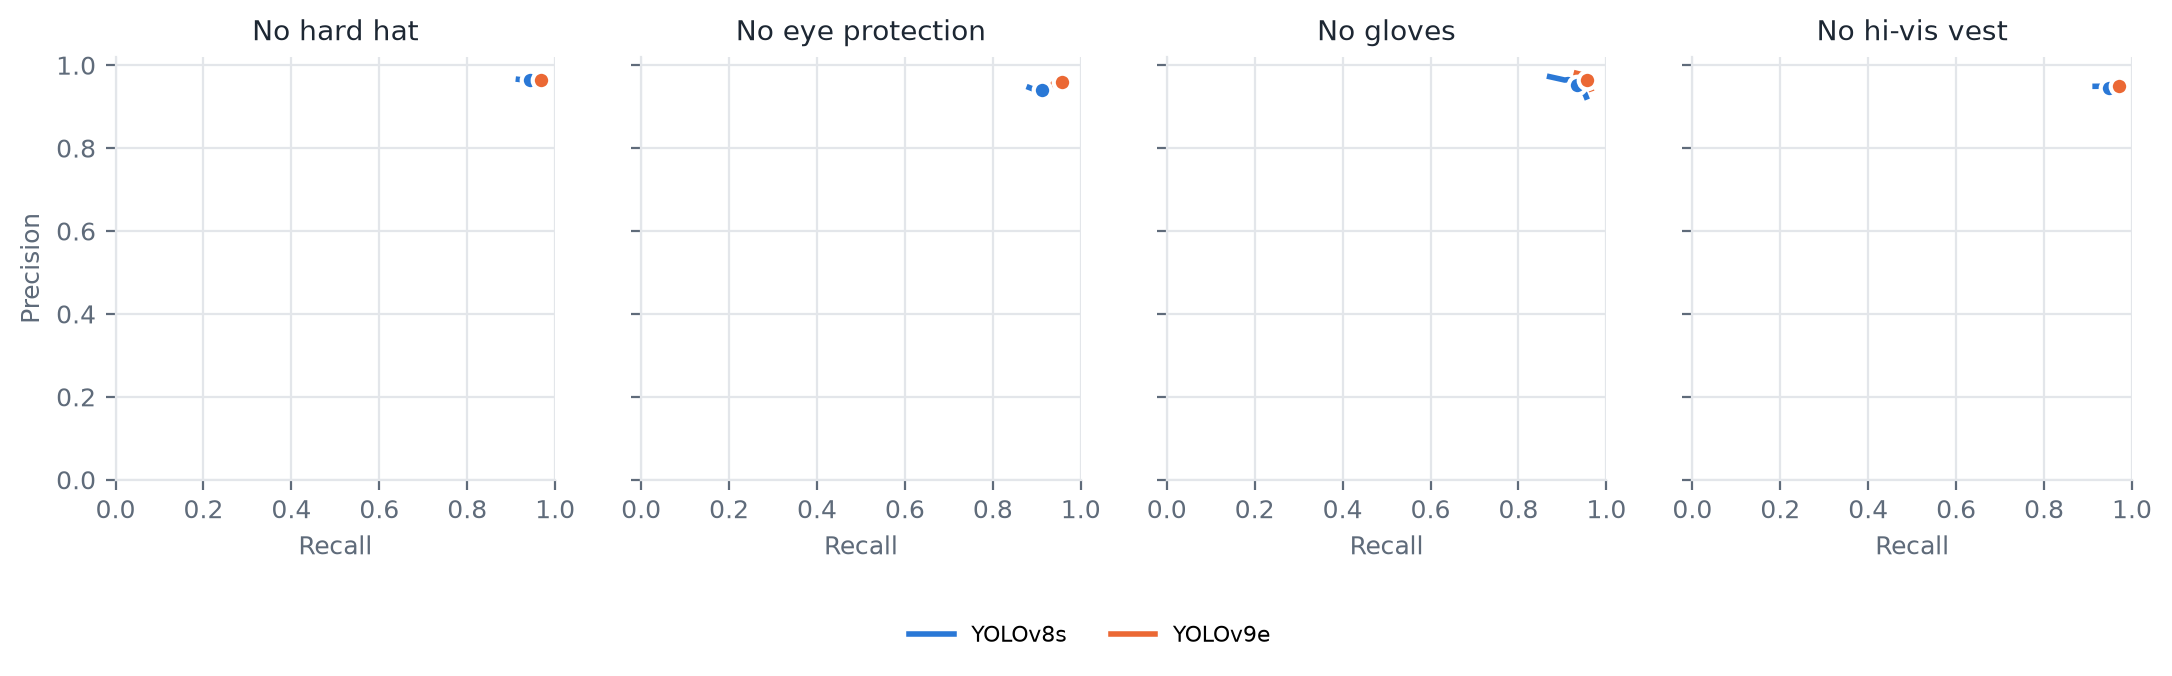
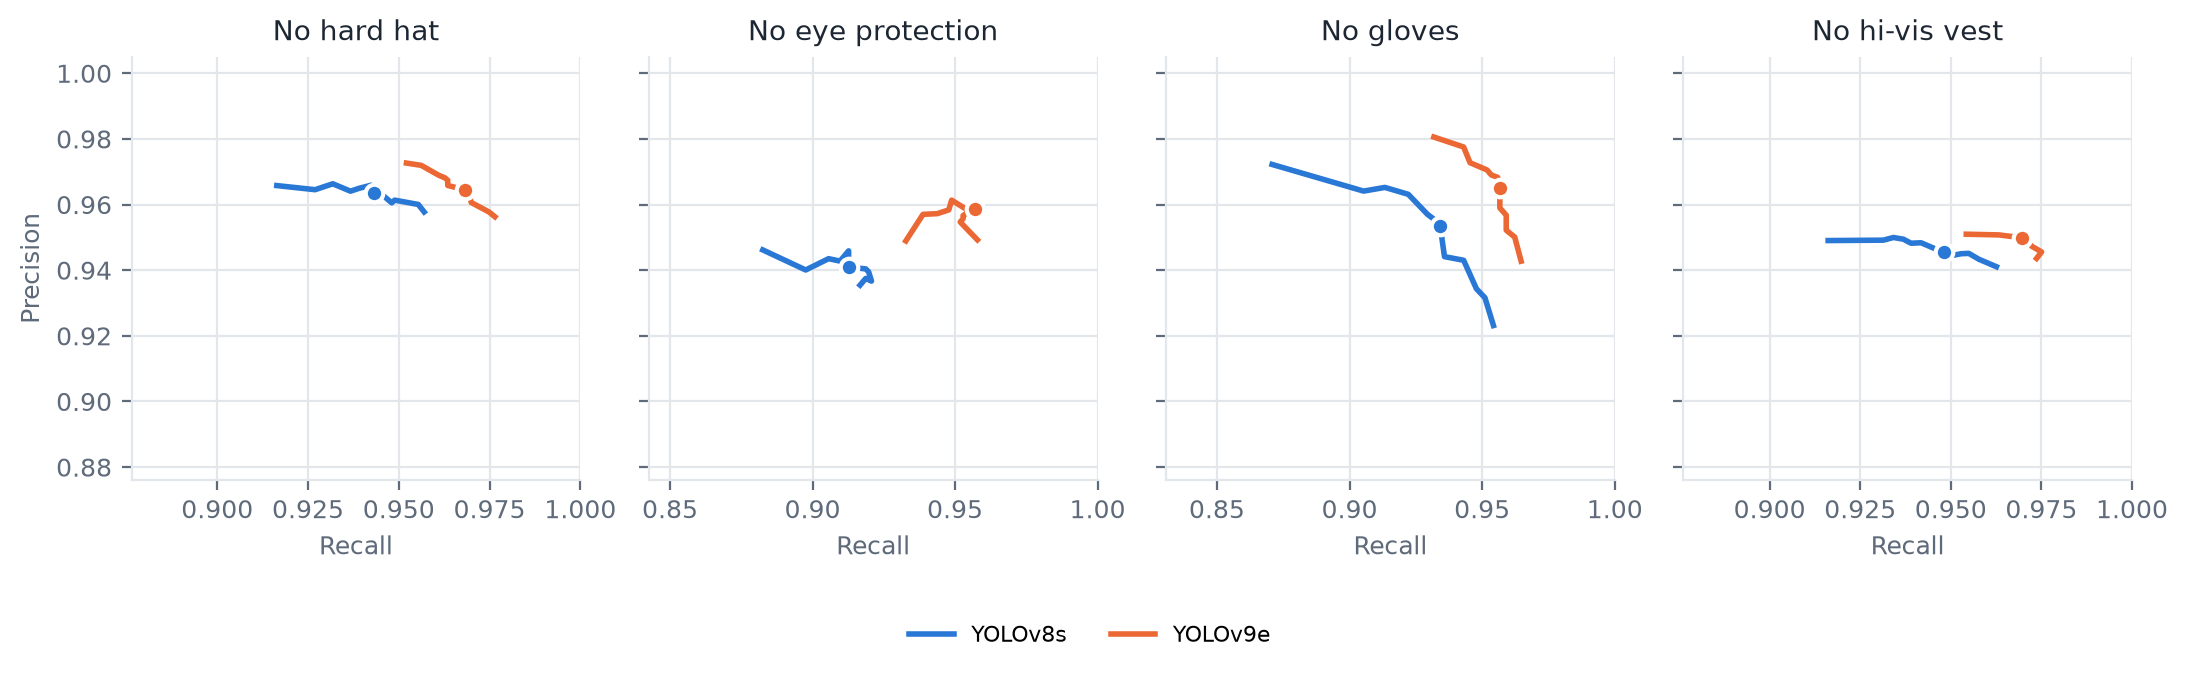
Phase 0: README (requirements, acceptance, 121 tests, coveralls), simulated acceptance results, zoomed PR figures

diff --git a/README.md b/README.md
@@ -46,6 +46,8 @@ evaluation/               offline evaluation on SH17
 scripts/download_models.py  downloads and checksums the SH17 YOLO weights
 tests/                    pytest suite (unit, workflow, API end-to-end, detectors, evaluation pipeline)
 docs/architecture.md      architecture diagram, component responsibilities, design decisions
+docs/requirements.md      user stories and data model, each story linked to code and tests
+docs/verification.md      verification log: every command, number and decision behind the results
 docs/course_mapping.md    which course lecture is applied where
 Dockerfile, docker-compose.yml   container build (non-root, health check) and Compose stack (+ optional Ollama)
 AGENTS.md                 rules for coding agents working in this repository
@@ -153,7 +155,7 @@ same with an old `shms.db`: the app refuses to start on an outdated schema and s
 pytest                 # or: make test
 ```
 
-120 tests, under a minute, no model or GPU needed (the YOLO tests run automatically when the weights are present). They
+121 tests, under a minute, no model or GPU needed (the YOLO tests run automatically when the weights are present). They
 cover every cell of the risk matrix, the PPE rules, area-specific PPE checks, idempotent reporting, database
 constraints, AI monitoring and `/metrics`, the workflow state machine and permissions, the HTTP API
 end-to-end (report → confirm → route → close → dashboard), the detectors (Ollama mocked at HTTP level), the
@@ -195,6 +197,7 @@ python -m evaluation.evaluate --root $SH17 --detector ollama --prompt v2 --subse
 python -m evaluation.evaluate --root $SH17 --detector ollama --prompt v1 --subset   # first prompt, for comparison
 python -m evaluation.compare && python -m evaluation.compare --only-subset
 python -m evaluation.release_gate --run yolo_sh17_yolo9e          # decides which hazard types the app uses
+python -m evaluation.acceptance --run yolo_sh17_yolo9e            # SIMULATED reporter acceptance (proposal criterion)
 ```
 
 (`make eval-prepare eval-yolo eval-vlm eval-compare SH17=~/datasets/sh17` runs the same.)
@@ -247,8 +250,8 @@ and `summary_subset.md` (the shared 300-photo subset, including the vision-langu
 **Release gate.** `python -m evaluation.release_gate --run yolo_sh17_yolo9e` applies the thresholds in
 `evaluation/release_gate.json` (precision ≥ 0.80, recall ≥ 0.75, specificity ≥ 0.80, p95 ≤ 20 s) and writes
 `shms/config/ai_release.json`; the app only enables approved hazard types. The vest check wrongly flags 42 % of
-the test photos that contain no vest violation (74 of 177), so it is **not released**: areas that require vests
-show it as "not AI-checked yet", and the hazard type is not offered on the report form. The precision/recall
+the test photos that contain no vest violation (74 of 177), so it is **not released**. The seeded refinery areas require flame-resistant
+coveralls rather than hi-vis vests, so no area requires a vest and the vest is not offered on the report form. The precision/recall
 targets were set for this evaluation; the proposal's own AI criteria are reporter acceptance (≥ 80 %, monitored
 in the app) and latency (≤ 20 s). The specificity threshold was added after the first test results.
 
@@ -284,7 +287,7 @@ cause unknown** (details in `docs/verification.md`).
 * Photos are processed locally; nothing is sent to external services.
 * Demo sign-in has no passwords; a deployment would use the company's single sign-on.
 * The hazard list contains only the PPE checks that passed the release gate, so other hazards (including a missing
-  hi-vis vest and unsafe conditions) cannot currently be reported in the app, not even manually.
+  hi-vis vest, which no seeded area requires, and unsafe conditions) cannot currently be reported in the app, not even manually.
 * Scope is limited on purpose to hazards with a public, peer-reviewed labelled test set. Unsafe conditions
   (caustic spills, steam leaks, missing grating) have no such dataset; collecting one with ≥ 3 annotators and
   measuring their agreement is future work. Fire/smoke (D-Fire) was considered and excluded: fires are handled

diff --git a/docs/verification.md b/docs/verification.md
@@ -670,3 +670,62 @@ both referenced by the README – do not exist in practice yet; (3) two statemen
 in configuration or behaviour (the "from the proposal" justification and vest reporting). The mAP gap to the paper is
 a disclosed limitation, not a blocker. With roughly half a day of your time (audit + decisions + report) and an
 hour of agent work after your go-ahead, the project can be submitted by Friday.
+
+---
+
+# Phase 0 – Safety net (2026-11-18)
+
+### P0.1 Patches applied (branch `feature/verification`)
+
+```bash
+git am ../shms_fixes3.patch ../shms_proposal4.patch
+```
+- `f4c58eb` Correct release-gate provenance note; clearer wording for gated checks and outdated databases; readable
+  model names and zoomed PR figure. (Resolves handover decisions 2 and 4; the `_why` text now states the proposal's
+  own criteria.)
+- `aa90777` Simulated reporter acceptance (`evaluation/acceptance.py`), user stories + data model
+  (`docs/requirements.md`), no vest requirement in seeded areas (the synthesized refinery uses flame-resistant
+  coveralls). (Resolves handover decision 3 by design: no area requires a vest.)
+
+### P0.2 README
+Structure lists `docs/requirements.md` and `docs/verification.md`; evaluation commands include
+`python -m evaluation.acceptance --run yolo_sh17_yolo9e`; test count 121; seeded areas require coveralls, not vests.
+
+### P0.3 Demo database
+`shms_demo.db` renamed to `shms_demo.old.db` (`mv -n`, not deleted). Next start re-seeded a fresh `shms_demo.db`:
+240 hazards, **0 areas with a vest check**; `/areas/BXH` lists "Flame-resistant coverall" and AI checks for hard hat,
+eye/face protection, gloves only. (Status: implemented+tested.) Note: the walkthrough in 8.5 was done on the older
+seed, where BXH still required a vest.
+
+### P0.4 Checks and simulated acceptance
+
+```bash
+pytest                                   # 121 passed
+ruff check . && ruff format --check .    # All checks passed / 50 files already formatted
+python -m evaluation.acceptance --run yolo_sh17_yolo9e
+python -m evaluation.acceptance --run yolo_sh17_yolo8s
+python -m evaluation.acceptance --run ollama_qwen2.5vl_7b_promptv2_subset
+python -m evaluation.compare && python -m evaluation.compare --only-subset
+```
+
+**Simulated** reporter acceptance (proposal criterion ≥ 80 %), `evaluation/results/acceptance_<run>.json`:
+
+| Run | Images with ≥ 1 released violation | Accepted unchanged | 95 % Wilson CI | Wrong type | Nothing suggested |
+|---|---:|---:|---|---:|---:|
+| YOLOv9e, full split | 1 492 | 1 450 (97.2 %) | 96.2–97.9 % | 15 | 27 |
+| YOLOv8s, full split | 1 492 | 1 416 (94.9 %) | 93.7–95.9 % | 22 | 54 |
+| Qwen2.5-VL 7B prompt v2, subset | 284 | 277 (97.5 %) | 95.0–98.8 % | 3 | 4 |
+
+Label: **simulated**, not field acceptance. Limits of the simulation (`evaluation/acceptance.py`): (1) an image counts
+as accepted when the AI's top suggestion is *any* violation present – most images contain several, so this is
+lenient; (2) images without a released violation are excluded, so false alarms on compliant workers do not lower
+acceptance (they are captured by specificity instead); (3) a real reporter may also change a correct suggestion.
+Real acceptance is recorded per report in the app (`ai_accepted`) and shown on `/monitoring`.
+
+`compare`: summary tables unchanged; only `fig_pr_full.png` and `fig_pr_subset.png` changed (axes now zoomed to
+0.3–1.0 – the report must mention that the axes do not start at 0).
+
+### P0.5 Publication note
+The pushed history contains the committer e-mail configured for this repository on all commits and, in six commit
+messages written by the course-update patches, a `Claude-Session:` link (only openable by its owner). The secret scan
+(8.3) found no credentials.
